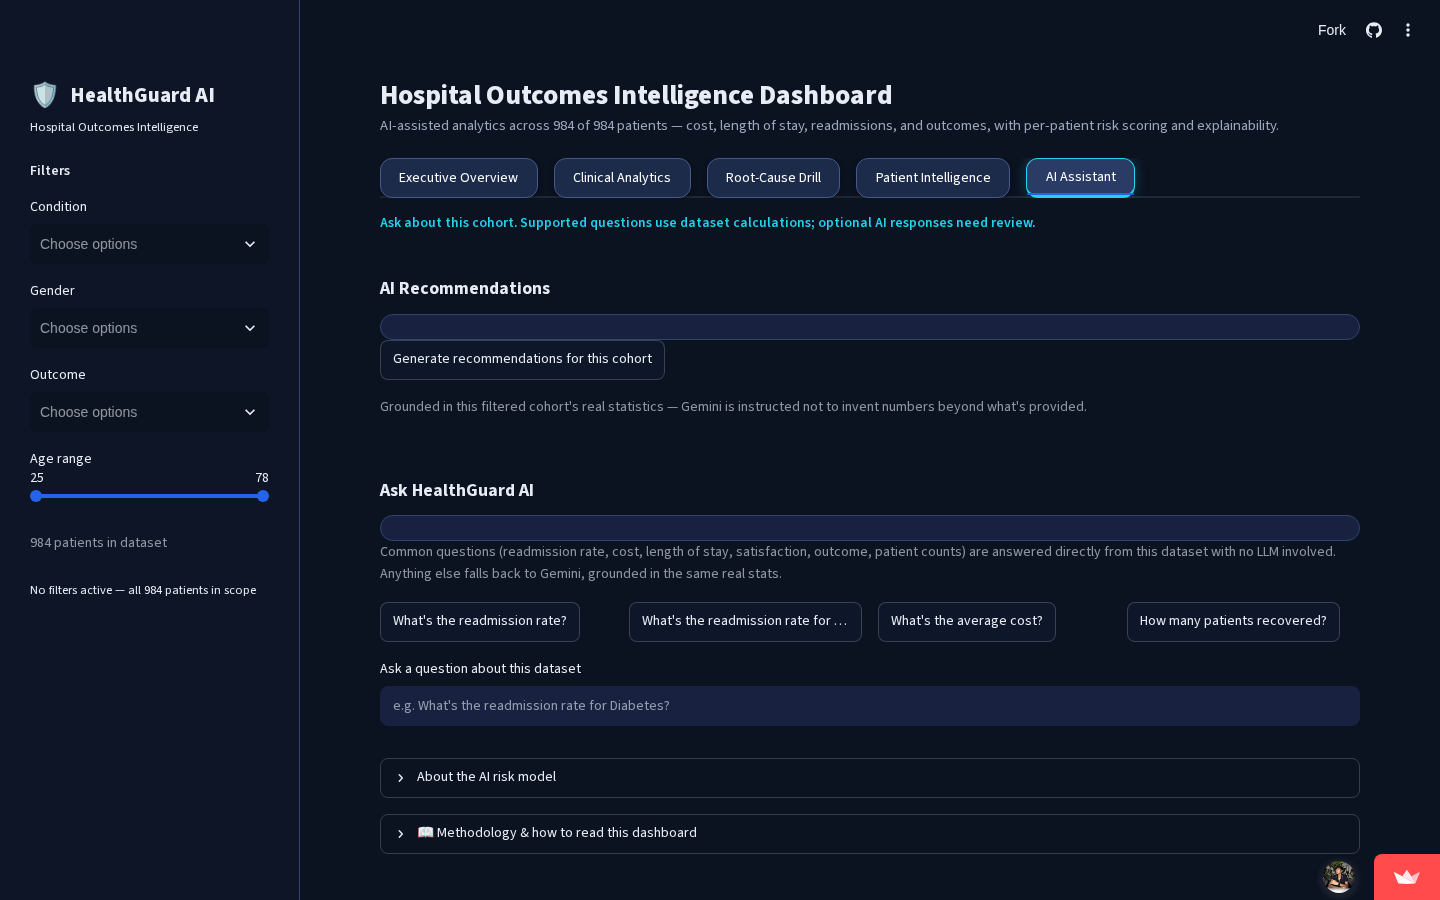
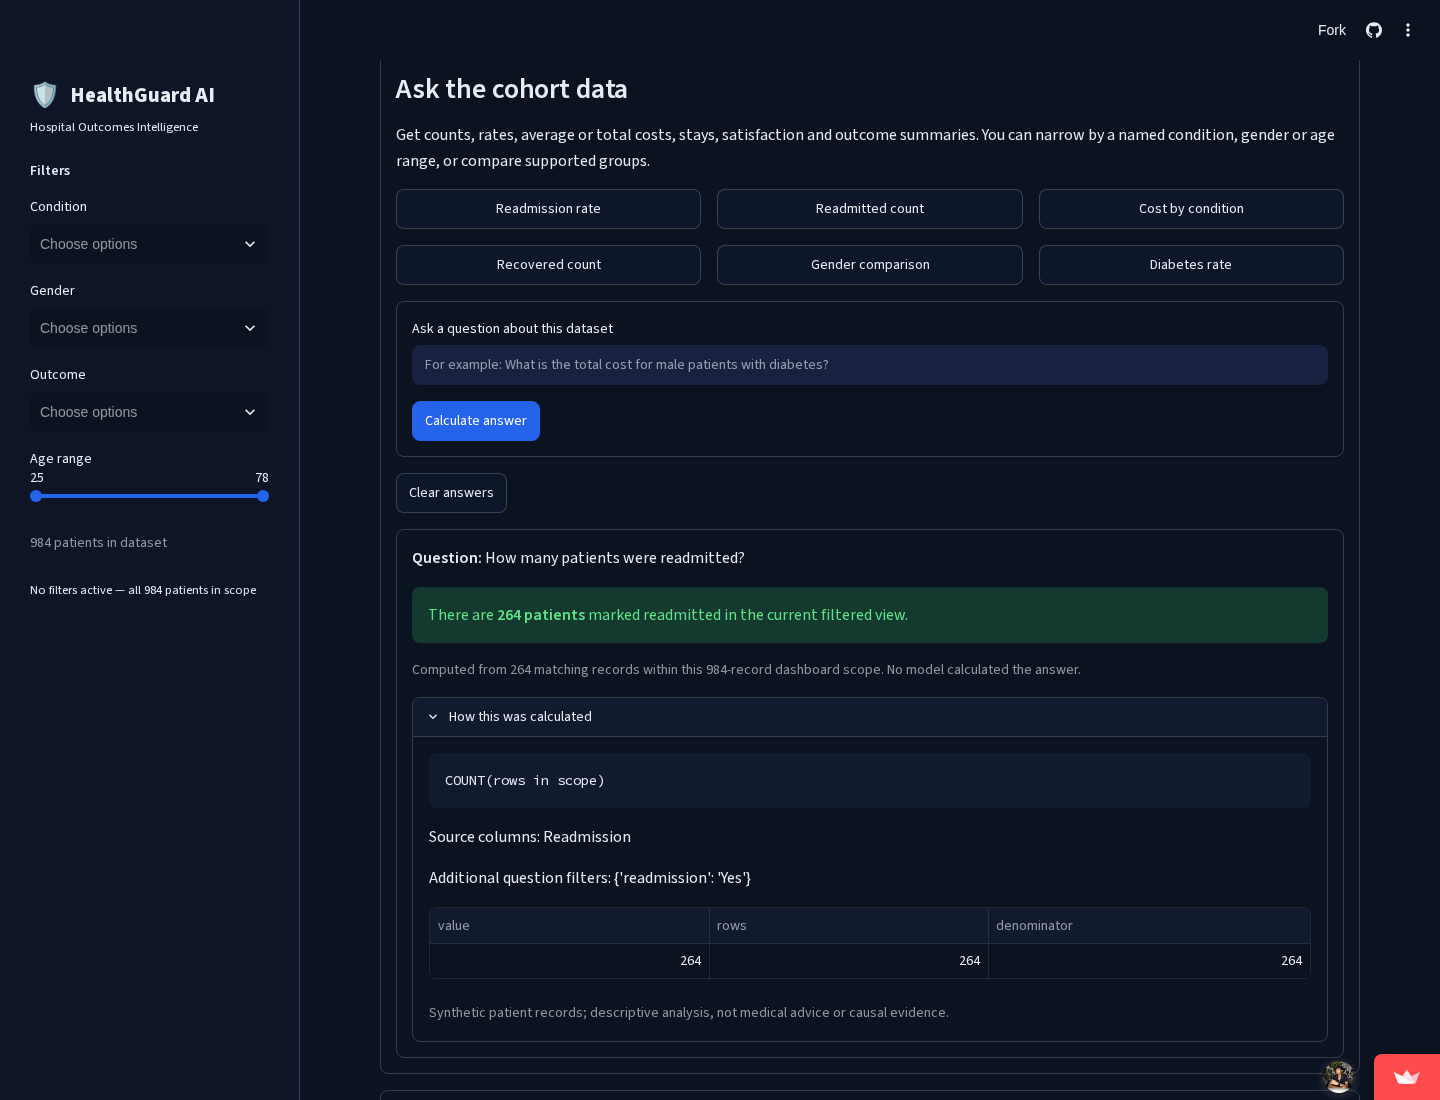
Harden public error handling and publish live-verified assistant evidence

diff --git a/app/dashboard/utils/assistant_service.py b/app/dashboard/utils/assistant_service.py
@@ -24,6 +24,7 @@ CONDITION_SYNONYMS = {
     'Kidney Stones': ['renal stones'], 'Allergic Reaction': ['allergy'],
     'Osteoarthritis': ['arthritis'], 'Appendicitis': [], 'Childbirth': [],
 }
+SERVICE_VERSION = 2
 AGE_LABELS = ['18-30', '31-45', '46-60', '61-75', '76+']
 CAUTION = 'Synthetic patient records; descriptive analysis, not medical advice or causal evidence.'
 METRICS = {'count', 'readmission_rate', 'average_cost', 'total_cost', 'average_stay',
@@ -37,7 +38,7 @@ readmission readmissions readmit readmitted cost costs spend spending expenditur
 expensive cheapest cheap highest lowest most least top bottom average avg mean
 length stay days satisfaction satisfied outcome outcomes recovered recovery stable
 rate rates percent percentage share compare comparison breakdown distribution
-condition conditions gender genders sex age ages aged band bands between than older
+condition conditions gender genders sex age ages aged band bands group groups between than older
 younger over under above below non not marked had have has having there value values
 three five ten first'''.split())
 
@@ -141,17 +142,17 @@ def parse_question(question) -> QueryPlan | dict:
                            'stay' in q, recovery_rate_requested, age_metric])
     if not count_requested and metric_mentions > 1:
         return _refuse('Ask one metric at a time so no part of the question is silently ignored.', 'clarification')
-    by_condition = bool(re.search(r'by condition|across conditions|which condition|most expensive conditions|cheapest conditions|highest.*conditions|top.*conditions', q))
+    by_condition = bool(re.search(r'(?:by|per|across|for each|in each) conditions?|which condition|most expensive conditions|cheapest conditions|highest.*conditions|top.*conditions', q))
     group = None
     if by_condition:
         group = 'Condition'
-    elif re.search(r'by gender|by sex|compare.*(?:women|female).*(?:men|male)', q) or len(gender_matches) > 1:
+    elif re.search(r'(?:by|per|across|for each|in each) (?:genders?|sex)|gender comparison|compare.*(?:women|female).*(?:men|male)', q) or len(gender_matches) > 1:
         group = 'Gender'
-    elif re.search(r'by age|age bands|age groups', q):
+    elif re.search(r'(?:by|per|for each|in each) age|age bands|age groups', q):
         group = 'Age_Band'
-    elif re.search(r'by outcome|outcome distribution|outcome breakdown', q):
+    elif re.search(r'(?:by|per|across|for each|in each) outcomes?|outcome distribution|outcome breakdown', q):
         group = 'Outcome'
-    elif re.search(r'by readmission|compare.*readmitted.*non', q):
+    elif re.search(r'(?:by|per|for each|in each) readmission|compare.*readmitted.*non', q):
         group = 'Readmission'
     if count_requested:
         metric = 'count'

diff --git a/tests/test_analyst_assistant.py b/tests/test_analyst_assistant.py
@@ -113,12 +113,17 @@ def test_age_filter_and_invalid_range(patients):
 
 
 def test_grouped_rates_and_sources(patients):
-    result = service.answer_question(patients, 'Compare readmission rate by gender')
-    assert result['ok'] and result['group_by'] == 'Gender'
-    for row in result['table']:
-        sub = patients[patients.Gender.eq(row['group'])]
-        assert row['value'] == pytest.approx(sub.Readmission.eq('Yes').mean() * 100)
-        assert row['denominator'] == len(sub)
+    for question in ['Compare readmission rate by gender', 'Readmission rate per gender',
+                     'Readmission rate for each gender']:
+        result = service.answer_question(patients, question)
+        assert result['ok'] and result['group_by'] == 'Gender'
+        for row in result['table']:
+            sub = patients[patients.Gender.eq(row['group'])]
+            assert row['value'] == pytest.approx(sub.Readmission.eq('Yes').mean() * 100)
+            assert row['denominator'] == len(sub)
+    comparison = service.answer_question(patients, 'Average cost per condition')
+    assert comparison['ok'] and comparison['group_by'] == 'Condition'
+    assert len(comparison['table']) == patients.Condition.nunique()
 
 
 def test_top_three_requires_actual_condition_values(patients):

diff --git a/app/dashboard/Home.py b/app/dashboard/Home.py
@@ -1,4 +1,5 @@
 import sys
+import logging
 from pathlib import Path
 sys.path.insert(0, str(Path(__file__).resolve().parents[2]))
 
@@ -905,6 +906,8 @@ def render_ai(df):
     """Scope-aware analytical Q&A and optional validated Gemini fact selection."""
     import importlib
     from app.dashboard.utils import assistant_service as assistant
+    if getattr(assistant, "SERVICE_VERSION", 0) != 2:
+        assistant = importlib.reload(assistant)
 
     # Streamlit may retain an imported adapter across a rolling source refresh.
     if getattr(gemini_ai, "ADAPTER_VERSION", 0) != 3:
@@ -1151,4 +1154,5 @@ try:
     st.caption("Demo analytics dashboard. Not intended for diagnosis, treatment, or clinical decision-making.")
 
 except Exception as e:
-    st.error(f"Error loading dashboard: {str(e)}")
+    logging.getLogger(__name__).error("Dashboard view could not load (%s)", type(e).__name__)
+    st.error("This dashboard view could not load. Refresh or reset the filters; the app owner can inspect the server logs.")

diff --git a/tests/test_assistant_ui.py b/tests/test_assistant_ui.py
@@ -62,3 +62,14 @@ def test_single_outcome_cohort_does_not_show_a_fictitious_zero_comparator(monkey
     findings = [item.value for item in app.info if 'Findings (computed)' in item.value]
     assert findings and 'comparison group is absent' in findings[0]
     assert 'versus ₹0' not in findings[0]
+
+
+def test_outer_dashboard_error_does_not_expose_exception_body(monkeypatch, caplog):
+    from app.dashboard.utils import hospital_data
+    def broken_load():
+        raise RuntimeError('PRIVATE_BACKEND_SECRET_SHOULD_NOT_APPEAR')
+    monkeypatch.setattr(hospital_data, 'load_patients', broken_load)
+    app = AppTest.from_file(str(APP)).run(timeout=40)
+    assert not app.exception
+    assert any('This dashboard view could not load' in item.value for item in app.error)
+    assert 'PRIVATE_BACKEND_SECRET' not in '\n'.join(item.value for item in app.error) + caplog.text

diff --git a/docs/FINAL_RELEASE_AUDIT.md b/docs/FINAL_RELEASE_AUDIT.md
@@ -75,6 +75,10 @@ Numerical findings were not increased or relabelled as real-world outcomes. Synt
 
 The numerical backend, evidence display and optional provider path were audited separately. The prior live provider call returned 503 and exposed an SDK error body; the adapter now uses safe status messages and bounded catalog-model selection/failover. Numerical Q&A never invokes the provider, and optional generated prose was replaced with validated selection of precomputed aggregate fact cards.
 
-Regression: 213 tests pass. Deterministic numerical/scope benchmark: 14/14; refusals: 12/12; independent gender comparison passes. Provider contracts are mocked in CI; actual deployed connection/brief results are separate verification, not inferred from an environment variable.
+Regression: 214 tests pass. Deterministic numerical/scope benchmark: 14/14; refusals: 12/12; independent gender comparison passes. Provider contracts are mocked in CI; actual deployed connection/brief results are separate verification, not inferred from an environment variable.
 
 A comparison-group defect was also repaired: absent readmitted/non-readmitted groups now produce unavailable means/differences instead of fictitious zero comparators. Full-dataset analytical headlines are unchanged. See `ASSISTANT_GUIDE.md` and the new evaluation report.
+
+### Actual deployed assistant checks
+
+On 2026-11-03, the deployed application returned the computed count of 264, refused an unsupported condition, and answered the filtered Diabetes cohort correctly (65 records; 1.5%). Gemini connection and validated card selection succeeded using a catalog-returned lightweight model; the evidence brief downloaded. Scope changes cleared the prior brief. No displayed Streamlit exception or JavaScript page error was observed in those workflows. See `reports/assistant_live_verification.json` and the genuine screenshots. These observations do not establish future provider uptime or whole-runtime commit attestation.

diff --git a/README.md b/README.md
@@ -96,7 +96,11 @@ The AI Assistant tab now separates numerical answers from provider assistance:
 
 The new deterministic benchmark passes **14 numerical/scope cases, 12 refusals and an independent gender comparison**. The original 8-answer/6-refusal benchmark also passes. These are authored cases, not a guarantee for arbitrary questions or provider uptime.
 
-The audited regression suite contains **213 tests**. The saved model/encoders still use scikit-learn **1.9.0**; they were not replaced for this assistant update.
+The audited regression suite contains **214 tests**. The saved model/encoders still use scikit-learn **1.9.0**; they were not replaced for this assistant update.
+
+![Computed answer with calculation evidence](docs/screenshots/assistant_computed_evidence.png)
+
+![Live-verified Gemini selection of computed evidence](docs/screenshots/assistant_gemini_brief.png)
 
 [Assistant behavior and configuration](docs/ASSISTANT_GUIDE.md) · [New evaluation](reports/assistant_reliability.md) · [Original Q&A evaluation](reports/qa_eval.md) · [Publication scope](docs/FINAL_RELEASE_AUDIT.md)
 
